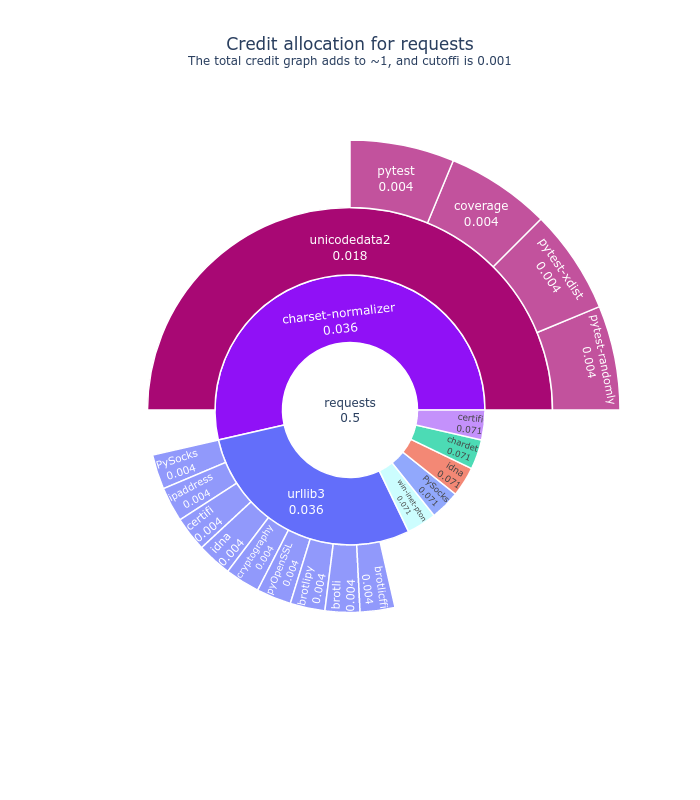
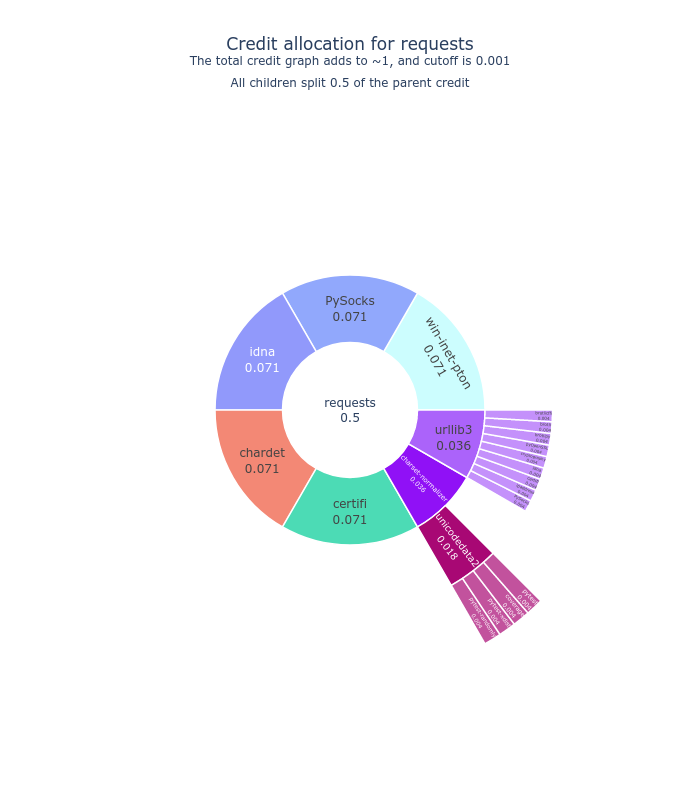
fixing split of credit between child and parent (#15)
* fixing split of credit between child and parent

Changed region(s): [[0.21, 0.1562, 0.9, 0.8125], [0.27, 0.0625, 0.72, 0.125]]

diff --git a/citelang/main/badge/__init__.py b/citelang/main/badge/__init__.py
@@ -14,7 +14,7 @@ except ImportError:
     )
 
 
-def generate(data, outfile=None, min_credit=0.01, height=800):
+def generate(data, outfile=None, min_credit=0.01, credit_split=0.5, height=800):
     """
     Generate a static badge
     """
@@ -33,12 +33,13 @@ def generate(data, outfile=None, min_credit=0.01, height=800):
         parents=parentids,
         values=values,
         marker={"colors": colorset, "line": {"width": 1.5}},
+        branchvalues="total",
     )
 
     layout = go.Layout(
         title={
-            "text": "Credit allocation for %s<br><sup>The total credit graph adds to ~1, and cutoffi is %s</sup>"
-            % (data["name"], min_credit),
+            "text": "Credit allocation for %s<br><sup>The total credit graph adds to ~1, and cutoff is %s</sup><br><sup>All children split %s of the parent credit</sup>"
+            % (data["name"], min_credit, credit_split),
             "x": 0.5,
         },
         font={"size": 12},
@@ -81,12 +82,13 @@ def unwrap_tree(tree_dict, labels=None, parents=None, values=None):
     labels = labels or []
     parents = parents or [""]
     values = values or []
+    credit = tree_dict.get("credit_label") or tree_dict.get("credit")
     node_name = "%s<br>%s" % (
         tree_dict["name"],
-        round(tree_dict["credit"], tree_dict["round_by"]),
+        round(credit, tree_dict["round_by"]),
     )
     labels.append(node_name)
-    values.append(tree_dict["size"])
+    values.append(tree_dict["credit"])
     for child in tree_dict.get("children"):
         parents.append(node_name)
         unwrap_tree(child, labels, parents, values)

diff --git a/citelang/main/result.py b/citelang/main/result.py
@@ -339,12 +339,20 @@ class Badge(Tree):
 
         logger.info("Saving to %s..." % outfile)
 
-        # Set root weight to 0 for correct render
-        self.data["weight"] = 0
-        self.data["size"] = 0
+        # Force root credit value to be sum of children in first layer
+        self.data["credit_label"] = self.data["credit"]
+        total_credit = 0
+        for child in self.data.get("children", []):
+            total_credit += child["credit"]
+        self.data["credit"] = total_credit
 
         # Add an extra parent to the data (root) so the one child is requests
-        badge.generate(self.data, outfile, min_credit=self.result.min_credit)
+        badge.generate(
+            self.data,
+            outfile,
+            min_credit=self.result.min_credit,
+            credit_split=self.result.credit_split,
+        )
         logger.info("Result saved to %s" % outfile)
 
 

diff --git a/citelang/main/client.py b/citelang/main/client.py
@@ -154,6 +154,7 @@ class Client(base.BaseClient):
 
         while next_nodes and not stop_looking:
             next_node = next_nodes.pop(0)
+
             deps = next_node.obj.dependencies(return_data=True)
             [
                 node_names.add(d["name"])

diff --git a/citelang/version.py b/citelang/version.py
@@ -2,7 +2,7 @@ __author__ = "Vanessa Sochat"
 __copyright__ = "Copyright 2022, Vanessa Sochat"
 __license__ = "MPL 2.0"
 
-__version__ = "0.0.16"
+__version__ = "0.0.17"
 AUTHOR = "Vanessa Sochat"
 EMAIL = "vsoch@users.noreply.github.com"
 NAME = "citelang"

diff --git a/CHANGELOG.md b/CHANGELOG.md
@@ -14,6 +14,7 @@ and **Merged pull requests**. Critical items to know are:
 The versions coincide with releases on pip. Only major versions will be released as tags on GitHub.
 
 ## [0.0.x](https://github.com/vsoch/citelang/tree/main) (0.0.x)
+ - fixing display of child->parent credit in graph (0.0.17)
  - improving layout of citelang graphic (0.0.16)
  - static badge added for software (0.0.15)
  - expanding interactive badge into treemap and sunburst (0.0.14)
